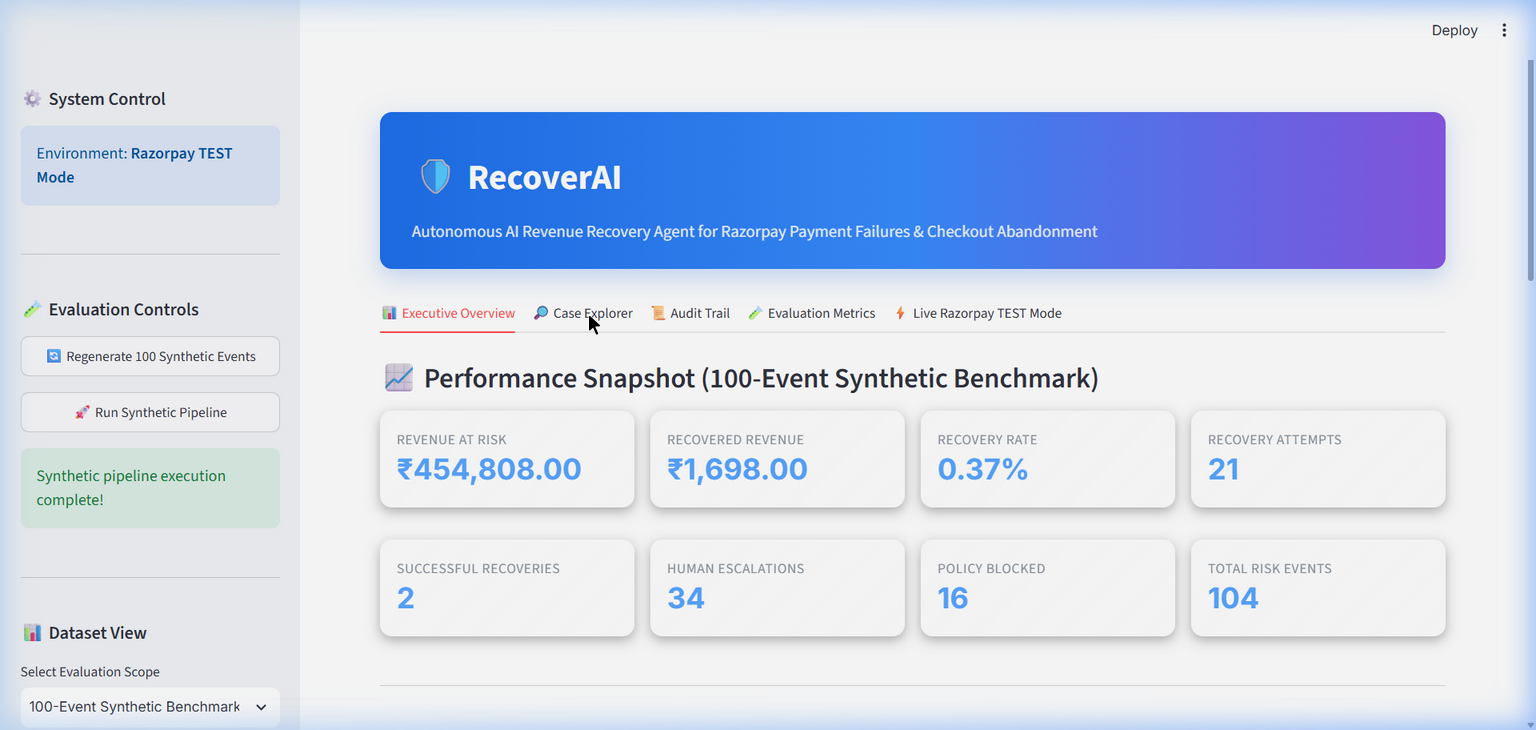
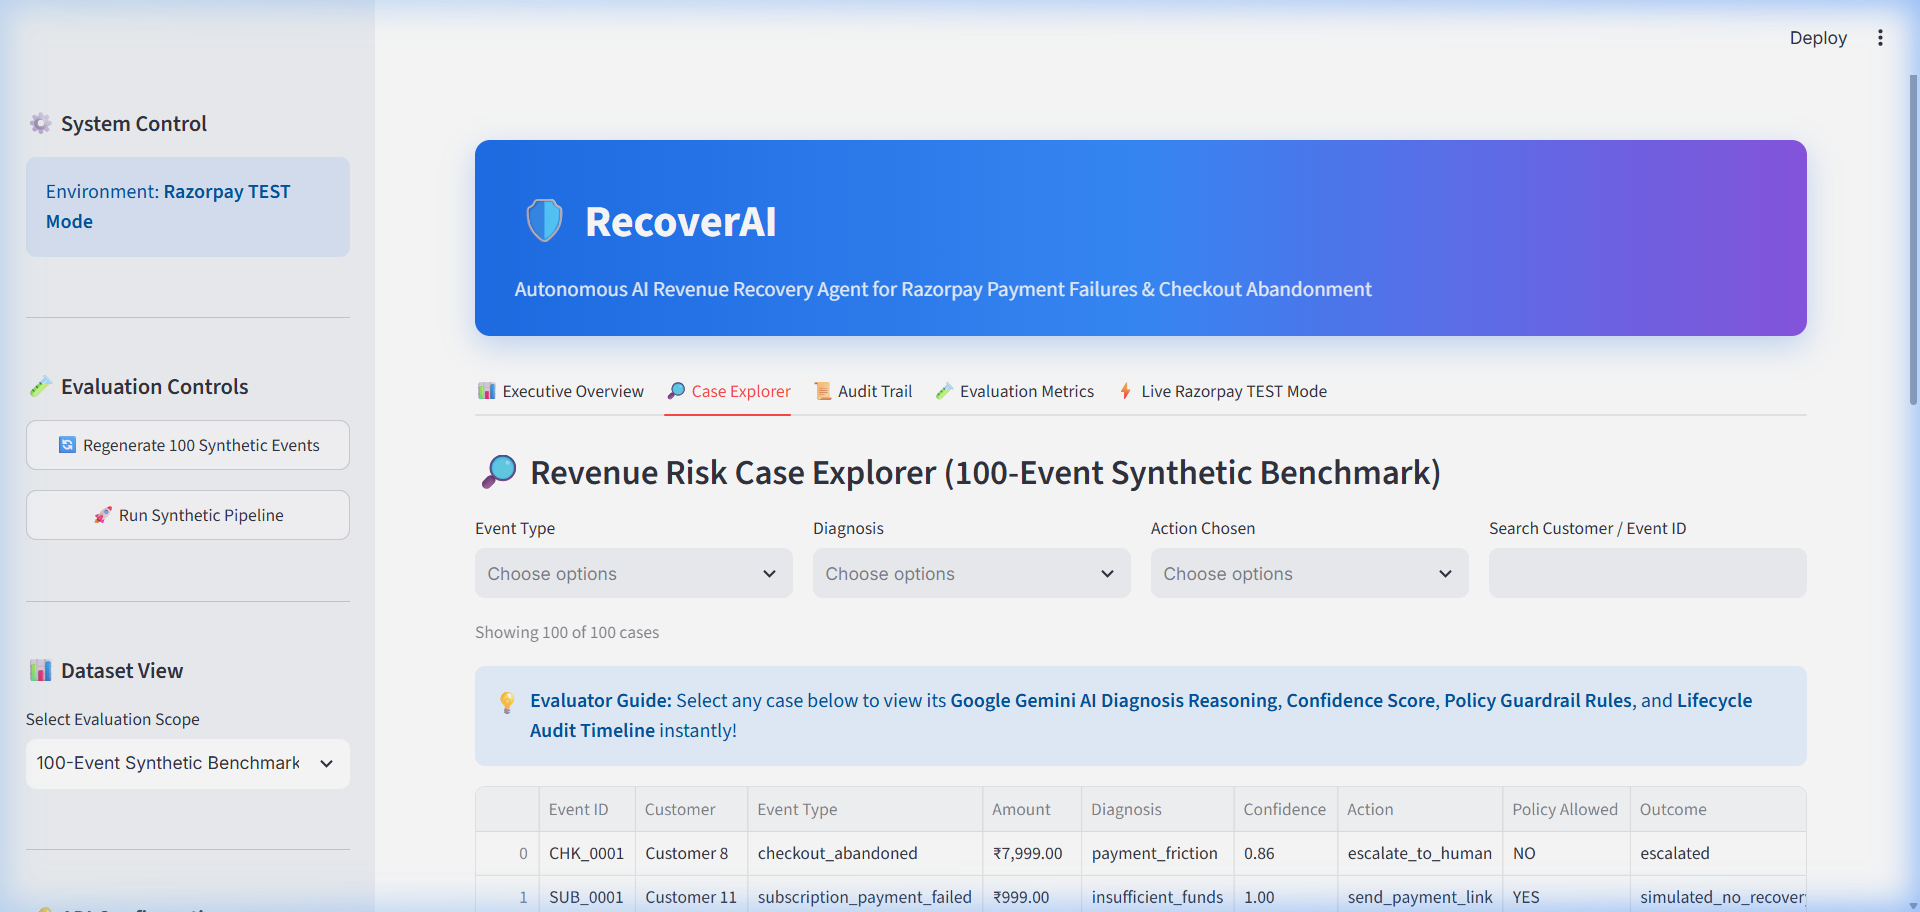
docs: finalize evaluation metrics with attempted link conversion rate and frozen screenshots

diff --git a/README.md b/README.md
@@ -180,9 +180,11 @@ RecoverAI evaluates synthetic batch benchmark performance separately from live i
 
 ### 1. Synthetic 100-Event Benchmark Dataset
 - **Total Events:** 100 benchmark events (60 subscription failures + 40 checkout abandonments across 24 customer profiles).
-- **Revenue at Risk:** `₹450,812.00`
-- **Simulated Recovered Revenue:** `₹28,493.00`
-- **Synthetic Recovery Rate:** `6.32%`
+- **Total Revenue at Risk:** `₹450,812.00`
+- **Attempted Recovery Volume:** `₹74,076.00` across 24 payment links created.
+- **Confirmed Recovered Revenue:** `₹28,493.00` (strictly from 7 successful payment link completions).
+- **Overall Revenue Recovery Rate:** `6.32%` (recovered revenue vs. total revenue at risk, accounting for cases suppressed by safety policies).
+- **Attempted Link Conversion Rate:** `29.17%` (7 recovered payments / 24 payment links sent).
 - **Policy Enforcement Outcomes:** 41 human escalations, 8 policy-blocked events, and 27 scheduled retries.
 
 ### 2. Live Razorpay TEST Mode Sandbox Integration
